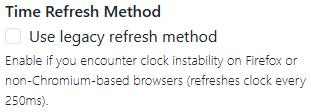
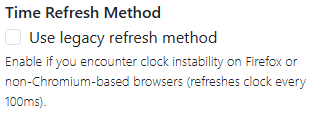
chore: update time refresh method image and info

diff --git a/docs/datetime.md b/docs/datetime.md
@@ -142,7 +142,7 @@ The table below lists the different tokens Luxon uses for each date format:
 | DDDD | Localized date with full month and weekday (Saturday, March 1, 2025) |
 | Off | The date is hidden |
 
-![The date displayed using the "DDDD" date format. The date (3/1/2025) is shown as "Saturday, March 1, 2025".](/assets/images/docs-Features/datetime/datedisplay-dddd.png)
+![The date displayed using the "DDDD" date format. The date (3/1/2025) is shown as "Saturday, March 1, 2025".](/assets/images/docs-Features/datetime/datedisplay-DDDD.png)
 
 <hr>
 
@@ -195,11 +195,11 @@ The Time Refresh Method checkbox lets you toggle between two methods of updating
 ![A screenshot of the Time Refresh Method checkbox. It is currently unchecked](/assets/images/docs-Features/datetime/timerefreshmethod.png)
 
 1. Default: The clock attempts to automatically sync with the system time by the second.
-2. Legacy Refresh Method: The clock refreshes on a set interval, every 250 milliseconds.
+2. Legacy Refresh Method: The clock refreshes on a set interval, every 100 milliseconds.
 
 **Why is this an option?** The new method of updating the time can be more accurate, but it depends on the browser's ability to keep a consistent interval, which browsers like Firefox struggle with.
 
-**The legacy method,** on the other hand, maintains accuracy up to 250 milliseconds, updating much more frequently at the cost of slightly increasing CPU usage.
+**The legacy method,** on the other hand, maintains accuracy up to 100 milliseconds, updating much more frequently at the cost of slightly increasing CPU usage.
 
 <hr>
 
